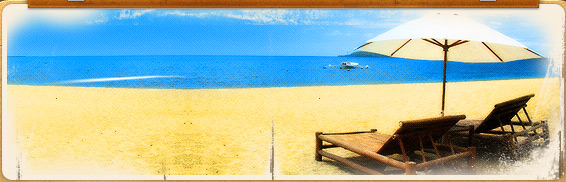
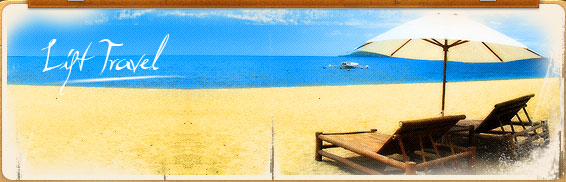
Added project files

diff --git a/src/main/webapp/templates-hidden/default.html b/src/main/webapp/templates-hidden/default.html
@@ -17,7 +17,9 @@
       </div>
       <!-- end logo -->
       <div id="menu">
-        <lift:menu.builder />
+        <lift:menu.builder linkToSelf="true" group="public"
+          li:class="link1" />
+          
         <!-- <ul>
           <li class="first"><a href="#" id="menu1" accesskey="1" title="" class="link1">Home</a></li>
           <li><a href="#" id="menu2" accesskey="2" title="" class="link1">Search</a></li>
@@ -31,11 +33,11 @@
         <div class="topbg">
           <div class="bottombg">
             <div id="splash">
-              <h2>Lorem Ipsum Dolor</h2>
+              <h2>Lift Travel</h2>
               <p class="text1">
-                <strong>Etiam dolore</strong> sectetuer adipiscing elit sed diam nonummy nibh blandit
+                Enjoy <strong>real-time</strong> web applications powered by the Lift web framework
               </p>
-              <p><a href="#" class="link2">Learn more &gt;&gt;</a></p>
+              <p><a href="about" class="link2">Learn more &gt;&gt;</a></p>
             </div>
             <!-- end splash -->
             <div id="content">
@@ -60,7 +62,9 @@
     <!-- end wrapper -->
     
     <div id="footer">
-      <p class="text2">Copyright &copy; 2010 Travelsite.com. All rights reserved.</p>
+      <p class="text2">
+        Built with Lift <lift:version_info.lift />, on <lift:version_info.date />
+      </p>
     </div>
     
   </body>

diff --git a/src/main/webapp/index.html b/src/main/webapp/index.html
@@ -1,6 +1,24 @@
 <lift:surround with="default" at="content">
-  <h2>Welcome to your project!</h2>
-  <p><lift:helloWorld.howdy /></p>
+  <div id="box1" class="topbg">
+    <h1>Welcome to your project!</h1>
+    <p><lift:helloWorld.howdy /></p>
+
+    <img src="images/homepage09.jpg" alt="" width="72" height="72" class="left" />
+    <p>Ut wisi enim ad minim veniam, quis nostrud exerci tation ullamcorper suscipit 
+      lobortis nisl ut aliquip ex ea <a href="#">commodo consequat</a>. Duis autem vel 
+      eum iriure dolor in hendrerit in vulputate velit esse mole stie.</p>
+    
+    <img src="images/homepage09.jpg" alt="" width="72" height="72" class="left" />
+    <p>Ut wisi enim ad minim veniam, quis nostrud exerci tation ullamcorper suscipit 
+      lobortis nisl ut aliquip ex ea <a href="#">commodo consequat</a>. Duis autem vel 
+      eum iriure dolor in hendrerit in vulputate velit esse mole stie.</p>
+    
+    <img src="images/homepage09.jpg" alt="" width="72" height="72" class="left" />
+    <p>Ut wisi enim ad minim veniam, quis nostrud exerci tation ullamcorper suscipit 
+    lobortis nisl ut aliquip ex ea <a href="#">commodo consequat</a>. Duis autem vel 
+    eum iriure dolor in hendrerit in vulputate velit esse mole stie.</p>
+
+  </div>
   
   <lift:with-param name="sidebar">
     <div id="box4" class="bg1">
